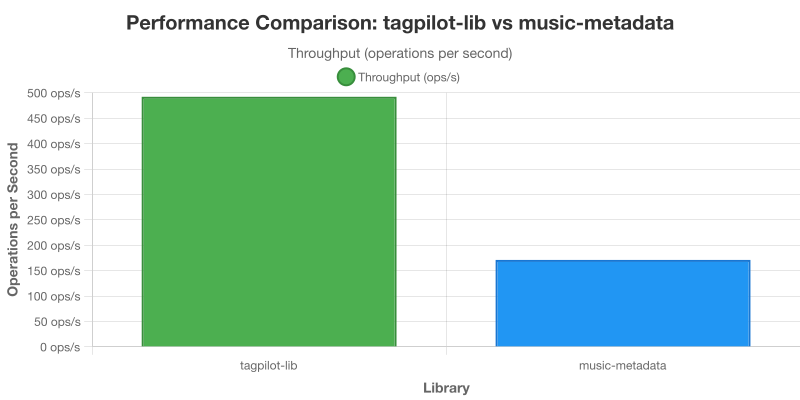
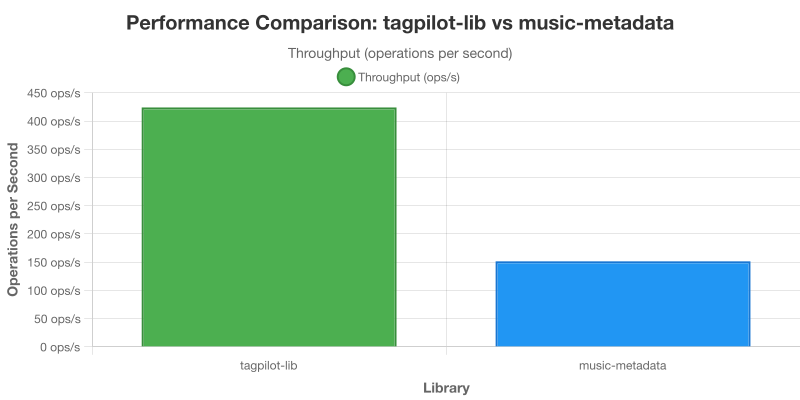
Issue #9 - Add benchmark script and documentation
- Introduced a new benchmark runner script `run-benchmark.mjs` for cross-platform execution with dependency management.
- Added a `bench:clean` command in `package.json` for running the benchmark with cleanup.
- Created `scripts/README.md` to document the usage and functionality of benchmark scripts, including preparation and cleanup steps.
- Updated `benchmark-results.jpg` to reflect recent changes in the benchmark process.

diff --git a/scripts/README.md b/scripts/README.md
@@ -1,0 +1,53 @@
+# Scripts
+
+This directory contains utility scripts for the tagpilot-lib project.
+
+## Benchmark Scripts
+
+### `run-benchmark.mjs` (Cross-Platform)
+
+Cross-platform benchmark runner with proper dependency management:
+
+```bash
+node scripts/run-benchmark.mjs
+# or
+yarn bench:clean
+```
+
+**What it does:**
+
+1. Prepares benchmark files (`yarn prepare-benchmark-files`)
+2. Links the main package for local development (`npm link`)
+3. Installs benchmark dependencies (`cd benchmark && npm install`)
+4. Runs the benchmark (`yarn bench`)
+5. Cleans up benchmark dependencies (`rm -rf benchmark/node_modules`)
+6. Cleans up benchmark files (`rm -rf benchmark-files`)
+
+### Legacy Scripts
+
+- `run-benchmark.sh` - Unix/Linux/macOS shell script (legacy)
+- `run-benchmark.bat` - Windows batch script (legacy)
+
+## Other Scripts
+
+- `convert-from-mp3.mjs` - Convert audio files between formats
+- `generate-test-data.mjs` - Generate test data for unit tests
+- `generate-npm-packages.mjs` - Generate platform-specific npm packages
+- `prepare-benchmark-files.mjs` - Prepare audio files for benchmarking
+
+## Usage
+
+All scripts can be run from the project root:
+
+```bash
+# Run benchmark with cleanup
+yarn bench:clean
+
+# Run benchmark without cleanup (keeps dependencies)
+yarn bench
+
+# Run individual scripts
+node scripts/convert-from-mp3.mjs music test-files
+node scripts/generate-test-data.mjs
+node scripts/generate-npm-packages.mjs
+```
